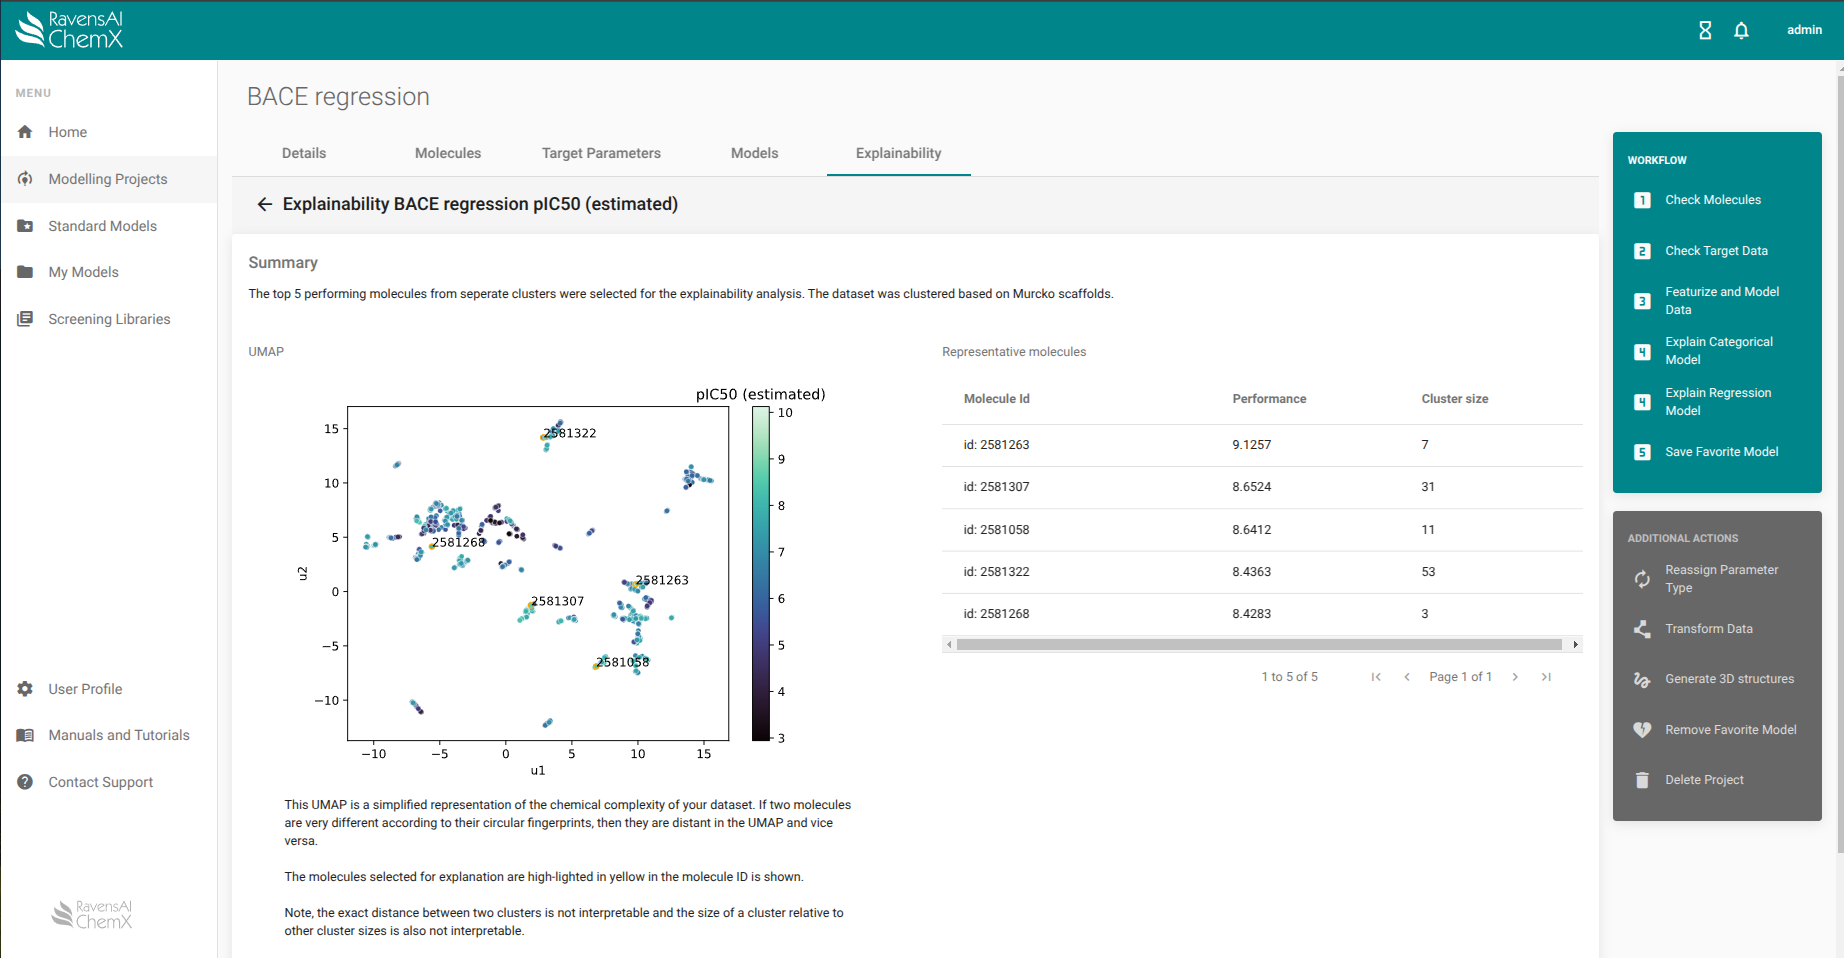
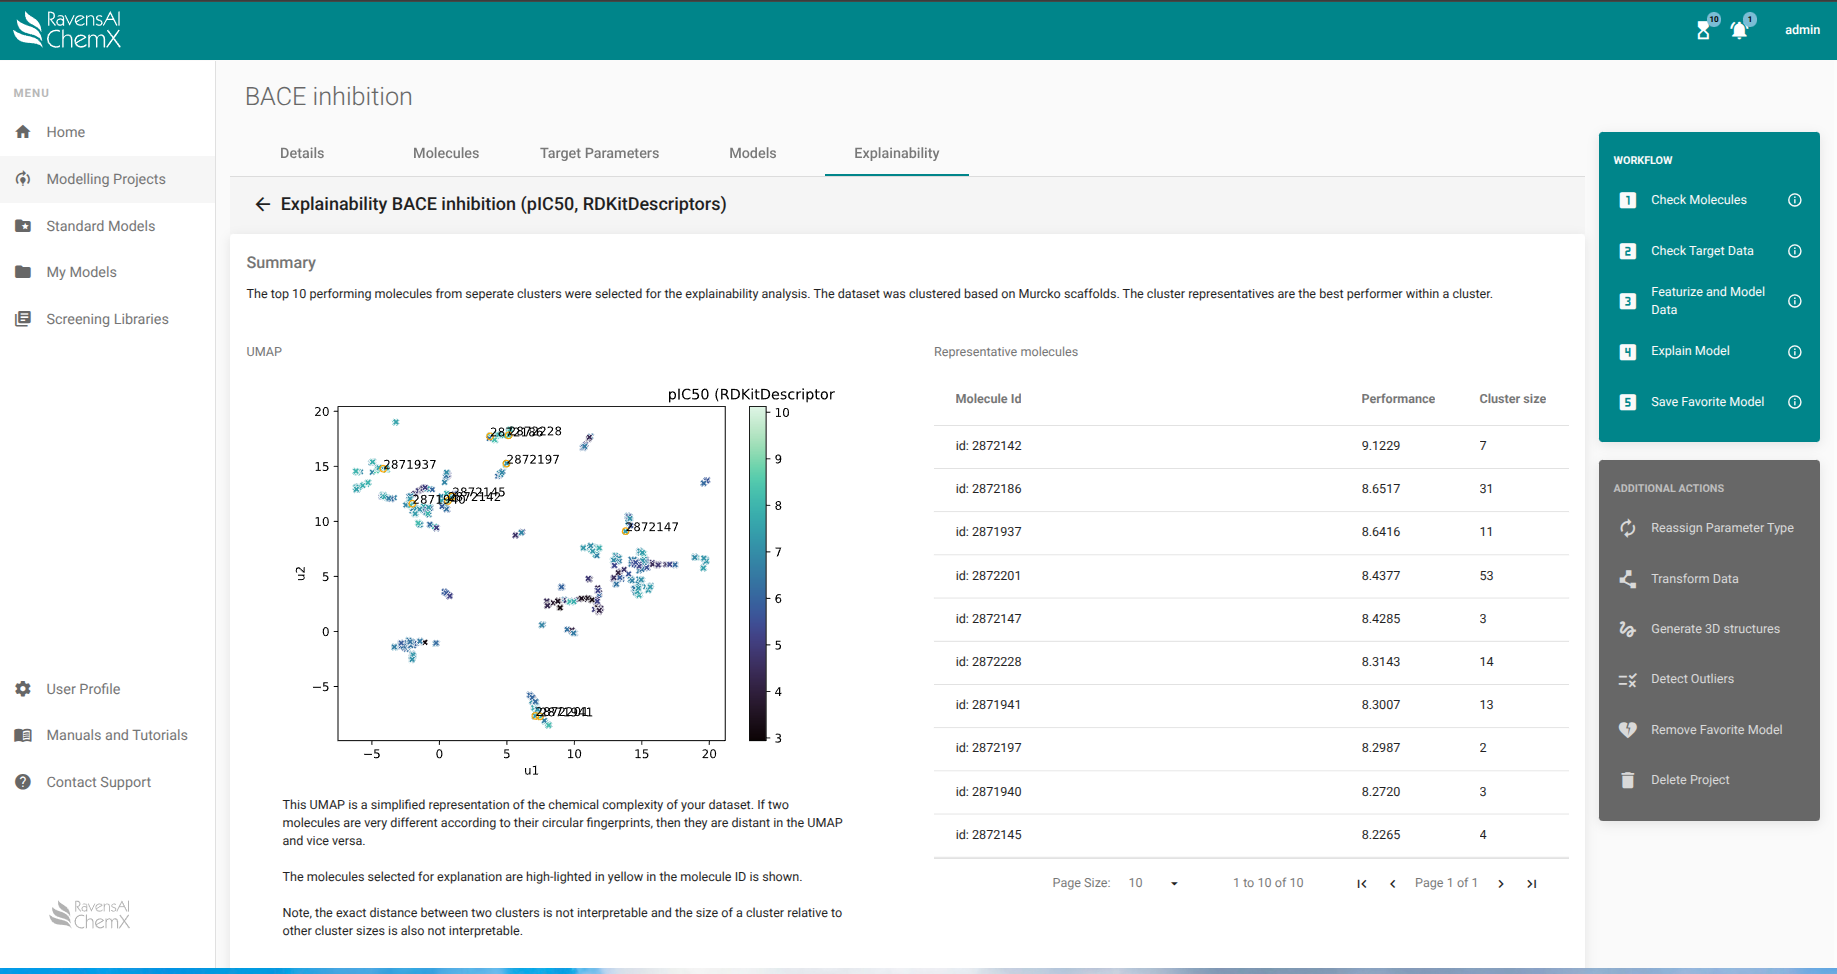
Updated until notification bells were implemented

diff --git a/docs/tutorial.md b/docs/tutorial.md
@@ -16,7 +16,7 @@ To ease navigation when doing the tutorial we set up the following style to guid
 
 This lighter font is the base font and is used when discussing considerations required at each part of the tutorial.
 
-**This bold font denotes actions required to follow the tutorial. When referencing menu items or action items from ChemX are stated in** ***italics***. 
+**This bold font denotes actions required to follow the tutorial. When referencing menu items or action items from ChemX they are stated in** ***italics***. 
 
 Additionally, we have added boxes with Extended Information which is not esssential to complete the tutorial, but relevant if you are unfamiliar with training machine learning models for molecular datasets.
 
@@ -66,7 +66,7 @@ If the data remain not normally distributed following transformation it is still
 
 Molecules have to be translated into vector or matrix format before you can train a machine learning model. This is called featurization of the molecules. Many different featurizers have been developed and each capture only part of the chemistry of a molecule, so it is important to select a featurizer that can capture the information required to predict a given target parameter. Many featurizers result in highly abstract features and are not easily interpreted if at all. 
 
-**Go to *Workflow > Featurize and Model data*. From a dropdown menu you select which of your target parameters or transforms thereof you would like to train models on, and below that you select which featurizers you would like to base the models on. Click *SUBMIT* when ready to start modelling and go grab a coffee or the like as a modelling job can take hours to complete.**
+**Go to *Workflow > Featurize and Model data*. From a dropdown menu you select which of your target parameters or transforms thereof you would like to train models on, and below that you select which featurizers you would like to base the models on. Click *SUBMIT* when ready to start modelling and go grab a coffee or the like as a modelling job can take hours to complete. For now, the "typical" thoroughness is fine. If you are short on time, you may choose preliminary instead.**
 
 The featurizers are subdivided into 1D-, 2D-, and 3D featurizers to help users select the appropriate featurizer. Generally, the higher the dimensionality, the higher the complexity, and thus the higher the time required to featurize the molecules. 
 
@@ -77,7 +77,7 @@ The featurizers are subdivided into 1D-, 2D-, and 3D featurizers to help users s
 
 ## Identifying the best model
 
-**When the modelling tasks have completed, you can find the results by clicking *Models* in the top bar.**
+**When the modelling tasks have completed, you can find the results by clicking *Models* in the top bar or using the *completed tasks* list (click the bell icon) to link you there directly.**
 
 ![](./assets/PerformanceHeatmap.png) 
 
@@ -112,17 +112,21 @@ When a promising model has been identified it is possible to probe the model for
 
 All of the explainanability analyses available in ChemX are calculated relative to a representative molecule of particular interest. This molecule may simply be the best performer from your dataset, but ChemX also allows you to select representatives based on both performance and structural similarity to other molecules in the dataset. 
 
-**Go to *Workflow > Explain Regression Model* which will take you to the view below.**
+**Go to *Workflow > Explain Model* which will take you to the view below.**
 
 ![](./assets/ExplainWizardA.png) 
 
-**Select the target parameter and featurizer of the model you are interested in learning more about and inform ChemX if lower og higher values are considered good for your particular target parameter. Then choose between clustering molecules to find representatives or manual selection of molecules before clicking *NEXT*.**
+**Select the target parameter and featurizer of the model you are interested in learning more about and click *NEXT***
+
+![](./assets/ExplainWizardA2.png) 
+
+**Then inform ChemX if lower og higher values are considered good for your particular target parameter. Also choose between clustering molecules to find representatives or manual selection of molecules before clicking *NEXT* again.**
 
 **If you chose manual selection, you get to the below view. If you have a specific molecule of interest you can supply its ID directly. If not, you can choose between top X molecules or top X % of molecules in the dataset as representatives for explainability analysis. X can be set freely in both cases.**
 
 ![](./assets/ExplainWizardB.png) 
 
-**If you chose clustering, you instead get to this view. You can cluster molecules based on their molecular scaffolds or based on overall chemical similarity between molecules. Select if you want to perform the explainability analysis for representatives of all clusters or if you are only interested in the X best/biggest clusters for larger datasets.**
+**If you chose clustering, you instead get to the below view. You can cluster molecules based on their molecular scaffolds or based on overall chemical similarity between molecules. Select if you want to perform the explainability analysis for representatives of all clusters or if you are only interested in the X best/biggest clusters for larger datasets.**
 
 ![](./assets/ExplainWizardC.png) 
 
@@ -137,7 +141,7 @@ All of the explainanability analyses available in ChemX are calculated relative 
 
 Here you see a list of the representative molecules along with their predicted performance and the size of the cluster they were in. The representative molecules are also highlighted on the UMAP which is a reduced dimension representation of the chemical complexity.
 
-**To see the explanations for a particular molecule, simply click the molecule in the table on the right. Clicking the molecule with ID 3277 from the biggest cluster brings you to the below results.**
+**To see the explanations for a particular molecule, simply click the molecule in the table on the right. Clicking the molecule from the biggest cluster brings you to the below results.**
 
 ![](./assets/ExplainDetailedMoleculeView.png) 
 
@@ -164,7 +168,7 @@ By analysing the important features and a few counterfactuals, you can start to 
 
 If you don’t have in-house screening libraries of interest it is worth having a look at the [ZINC](https://cartblanche22.docking.org/) or [EnamineReal](https://enamine.net/compound-collections/real-compounds/real-database) databases. Especially ZINC is very handy, as you can download molecule libraries of lead-like molecules or other curated subsets and filter on compound purchasability. 
 
-**To apply a model, simply navigate to the model you want to use or the screening library you want to use it on and click *Screen with Favorite Model* in the Workflow panel on the right. When the screening is complete, you can find the predictions at *Screening Libraries > YourLibraryName* and go to *Predicted Parameters* in the top bar and clicking the name of the screening task in the list. This will bring you to the below view.**
+**To apply a model, simply navigate to the model you want to use or the screening library you want to use it on and click *Screen with Model* in the Workflow panel on the right. When the screening is complete, you can find the predictions at *Screening Libraries > YourLibraryName* and go to *Predicted Parameters* in the top bar and clicking the name of the screening task in the list. This will bring you to the below view.**
 
 ![](./assets/ScreeningLibDetailedView.png)
 
@@ -173,7 +177,7 @@ Here you get an overview of the predicted performance of your library. Did anyth
 When evaluating the results it is important to consider the model’s applicability to your screening library. One way to assess this is by using UMAPs - the reduced dimensionality plots we have seen a few times in this tutorial already. This time we map both the training data and the screening library in the same map to see if the molecules in the screening library are similar to what the model was trained on. If both datasets exist in the different groupings then the chemical complexity is similar. If the map has many distinct groupings with molecules from only one of the datasets then the model, or if there is no overlap at all, then the model has to extrapolate its learnings to unknown chemistry and you should proceed with caution.
 
 !!! warning "IMPORTANT"
-    When modelling based on molecular structure, a common pitfall is training you model on one type of chemistry and then using it on another type of chemistry that the model has learnt nothing about.
+    When modelling based on molecular structure, a common pitfall is training you model on one type of chemistry and then using it on another type of chemistry that the model has learnt nothing about. Use the UMAP to evaluate if this is the case for your screening. If the molecules in the screening library overlap with the molecules from the training set you should be okay moving forward. If not, you need additional validation of the results.
 
 ## Exploring the screening results
 

diff --git a/docs/interfaceoverview.md b/docs/interfaceoverview.md
@@ -10,10 +10,10 @@ Navigate between modelling projects, completed models, and screening libraries.
 Access your User Profile, the Documentation and tutorials, or contact support.
 
 :fontawesome-solid-c:{ .letter }
-Use the tabs to switch between viewing project details, molecules, target data, models, and explanations. Project details includes the molecule upload log.
+Use the tabs to switch between viewing project details, molecules, target data, models, and explanations. Project details include the molecule upload log.
 
 :fontawesome-solid-d:{ .letter }
-See ongoing tasks by clicking the hour glass, this session's warnings by clicking the bell, and log-out by clicking your user name.
+See ongoing tasks by clicking the hour glass, completed tasks by clicking the bell, and log-out by clicking your user name. It is possible to see the status of an ongoing task and kill it from within the hour glass panel. You can click on completed tasks (...) to go to their results.
 
 :fontawesome-solid-e:{ .letter }
 Here you will find the 5 mandatory steps for successfull modelling.

diff --git a/docs/glossary.md b/docs/glossary.md
@@ -33,6 +33,9 @@
 `Target parameter`
 : The target parameter is the physical parameter that you are training a model to predict. It could be e.g. membrane permeability or binding affinity.
 
+`Thoroughness`
+: The thoroughness parameter influences the tuning effort during model training. More effort will find better models, but also takes more time. Consider using Preliminary for a first, quick assessment.
+
 `UMAP`
 : A UMAP is a reduced dimension representation of the chemical complexity. If two molecules are very different according to their circular fingerprints, then they are distant in the UMAP and vice versa. **Note, the exact distance between two clusters is not interpretable and the size of a cluster relative to other cluster sizes is also not interpretable.**
 
